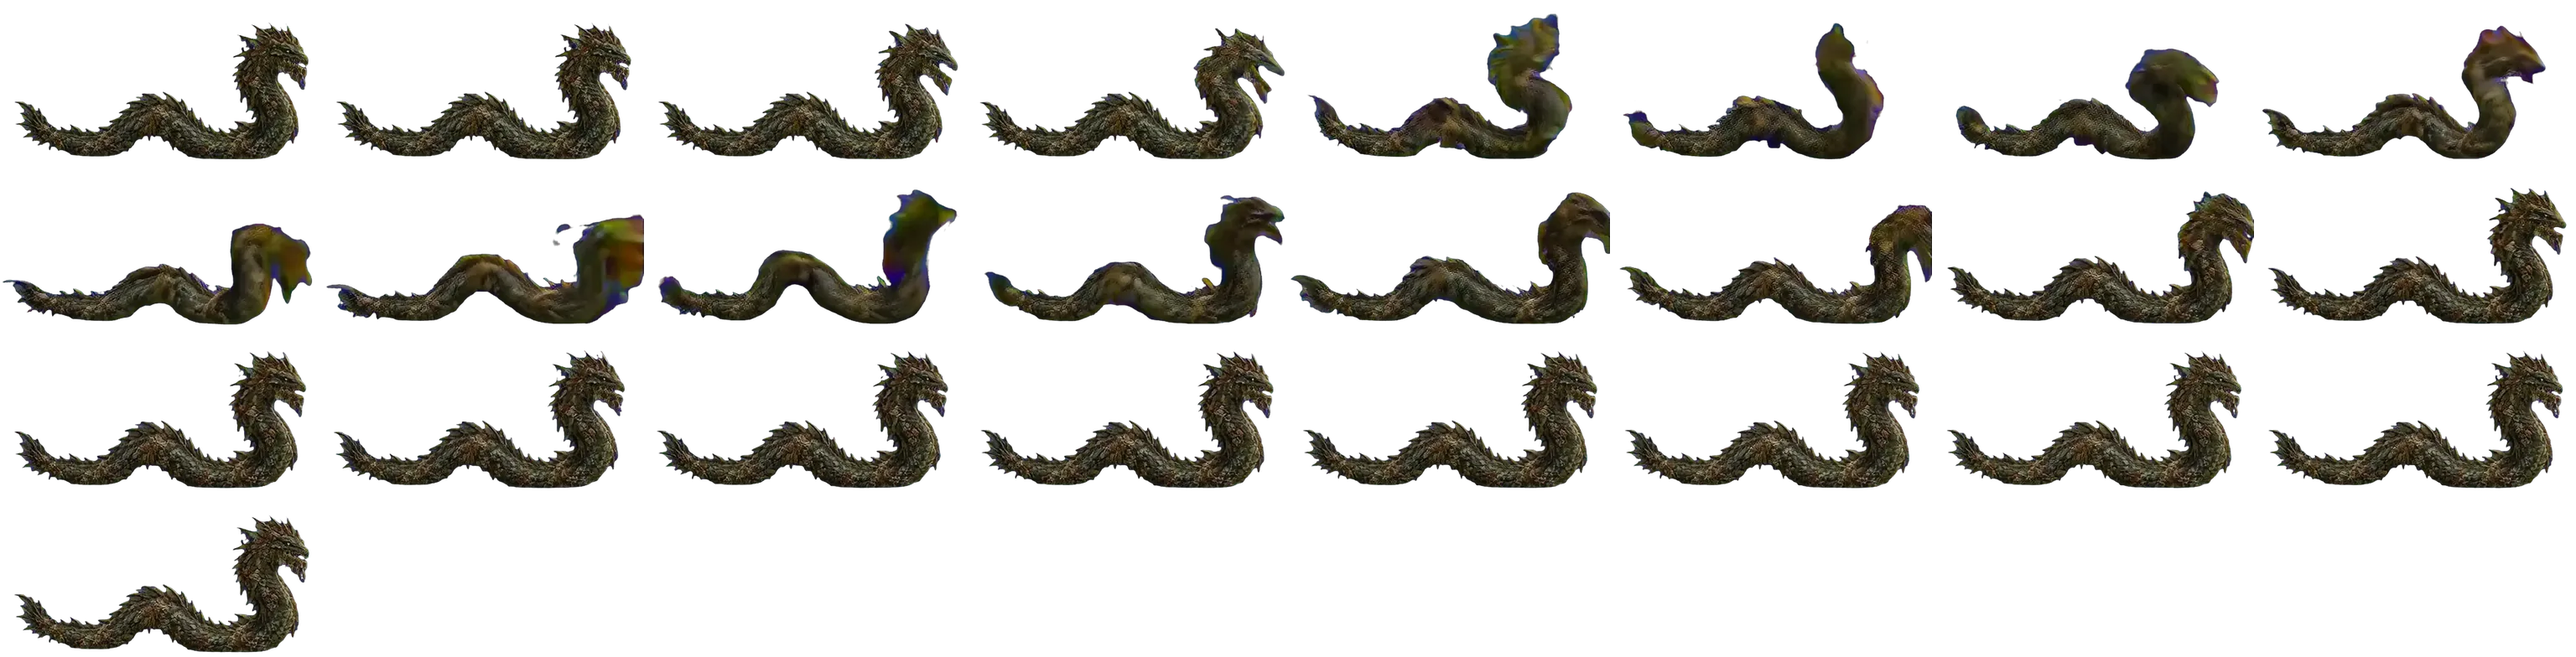
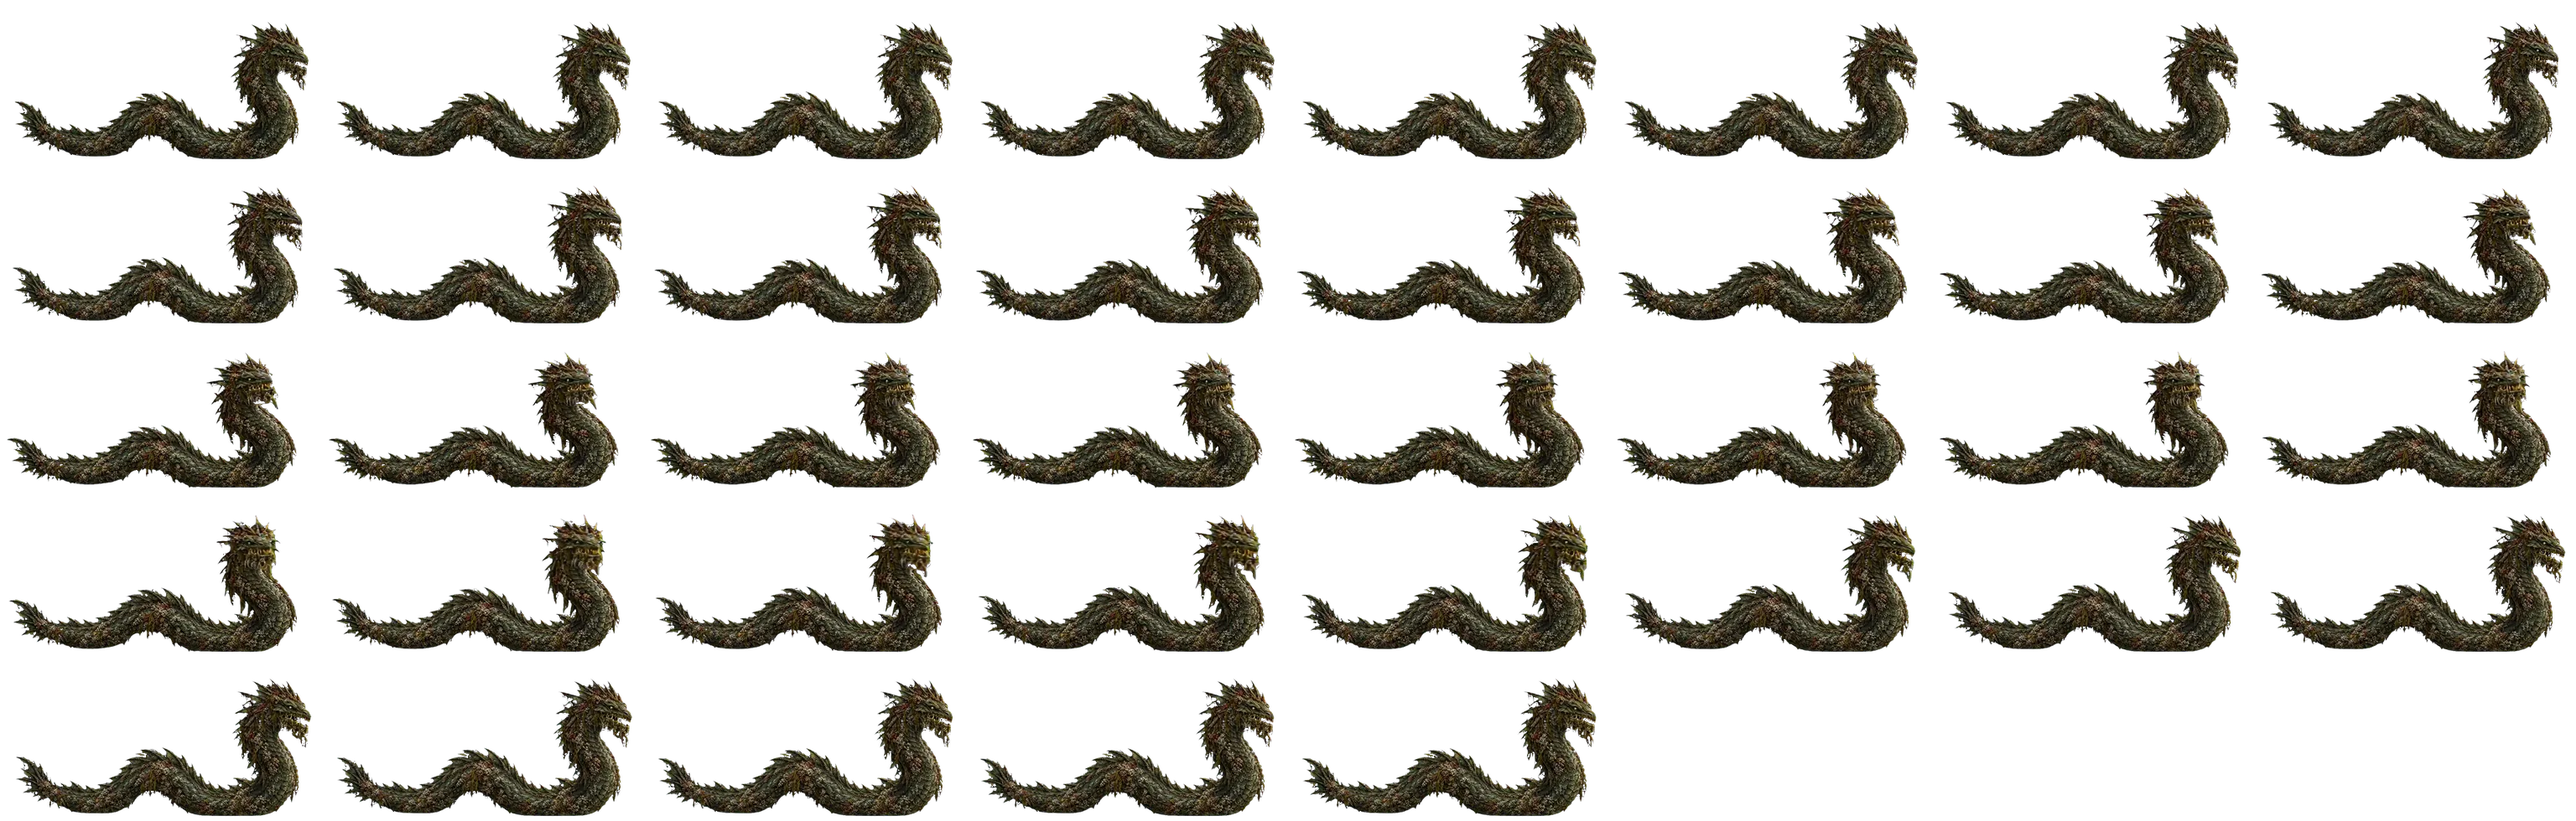
Tides: calmer, slower Leviathan hit clip (full quality, returns to the standing pose)

diff --git a/src/ui/sprites.ts b/src/ui/sprites.ts
@@ -129,7 +129,7 @@ export const SPRITES: Record<string, SpriteSpec> = {
   reefGolem: { dir: 'jednostki/rafowy_golem', box: LARGE, speed: { chod: 1.4, atak: 1.5, smierc: 1.5, trafienie: 1.4 } },
   seaWitch: { dir: 'jednostki/morska_wiedzma', box: [72, 100] as const, corpseMax: CORPSE_MAX_W, speed: { chod: 1.4, atak: 1.5, smierc: 1.5, trafienie: 1.4 } },
   // The Leviathan shows its whole body on land (the author, 25.11; was a head rising from water); its hit is drawn in code.
-  leviathan: { dir: 'jednostki/lewiatan', box: [170, 90] as const, speed: { chod: 1.4, atak: 1.5, smierc: 1.5, trafienie: 1.4 } },
+  leviathan: { dir: 'jednostki/lewiatan', box: [170, 90] as const, speed: { chod: 1.4, atak: 1.5, smierc: 1.5, trafienie: 1.2 } },
   tritonKing: { dir: 'jednostki/krol_trytonow', box: [80, 104] as const, corpseMax: CORPSE_MAX_W, speed: { chod: 1.4, atak: 1.5, smierc: 1.5, trafienie: 1.4 } },
   sirenSinger: { dir: 'jednostki/syrena_piesniarka', box: [80, 104] as const, corpseMax: CORPSE_MAX_W, speed: { chod: 1.4, atak: 1.5, smierc: 1.5, trafienie: 1.4 } },
   seaSerpent: { dir: 'jednostki/waz_morski', box: LARGE, speed: { chod: 1.4, atak: 1.5, smierc: 1.5, trafienie: 1.4 } },

diff --git a/docs/BACKLOG.md b/docs/BACKLOG.md
@@ -41,7 +41,7 @@ Uwagi z oglądania gry po pakiecie Stad, Klanu i Przypływów. Kolejność: tani
    - **Wynik przebiegu stroiciela 25.11 (15:51–18:59, 81 przebiegów, `.tmp/sim/retune-all.log`, `=== done`; NIE scalony):** 1485 komórek w paśmie (88%), 100 na granicy, 107 poza. Poza pasmem: (1) duże mapy (veryLong/huge/giant), Normalny i Trudny za nisko, dźwignie wyczerpane (np. giant·pvp2·full 19%); najgorzej Kryształy `*-crystals-g1-xl` (8–10 z 12 komórek OUT); (2) Łatwy przeskakuje pasmo (3% → 93–100%): dźwignie `noFactionBonus` / `crystalsNeededDelta` są „wszystko albo nic”; (3) Przetrwanie na Cieśninie i Dolinie g0 (po 5 OUT). Trudny Potyczki g0 i tak pomijany przez `tuneMerge` (ręczna reguła autora).
    - **Plan (26.11, autor akceptuje pracę nad tym):** (a) `tuneMerge` tego przebiegu, `make check`, commit; golden `-u` w osobnym commicie; (b) mocniejsza dźwignia dla dużych map (np. więcej skarbów startowych Przymierza zależnie od rozmiaru), dostroić tylko komórki OUT; (c) stopniowe dźwignie Łatwego (np. połowa premii frakcji) zamiast przełącznika. Kolejność a → b → c.
 
-**88. Animacje Bractwa Przypływu: druga runda poprawek zrobiona 26.11, czeka na akceptację autora (`make podglad F=tides`).** Trafienia 6 jednostek jako klipy (Strażnik, Żaba, Syrena, Żółw, Kapłanka, Albatros z pozy stojącej), atak Strażnika (pchnięcie trójzębem), Lewiatan jako wąż na lądzie. Znane wady: trafienie Albatrosa ma rozmyte pióra w szczycie odrzutu, trafienie Lewiatana ma kilka klatek z kolorowymi artefaktami (draft), trafienie Żółwia jest delikatne. Lekcja: `lastFrameImage` równe obrazowi startowemu wymusza powrót do pozy (trafienia i ataki); słowa „blow” i „knocked off balance” blokuje filtr.
+**88. Animacje Bractwa Przypływu: druga runda poprawek zrobiona 26.11, czeka na akceptację autora (`make podglad F=tides`).** Trafienia 6 jednostek jako klipy (Strażnik, Żaba, Syrena, Żółw, Kapłanka, Albatros z pozy stojącej), atak Strażnika (pchnięcie trójzębem), Lewiatan jako wąż na lądzie. Znane wady: trafienie Albatrosa ma rozmyte pióra w szczycie odrzutu, trafienie Żółwia jest delikatne. Lekcja: `lastFrameImage` równe obrazowi startowemu wymusza powrót do pozy (trafienia i ataki); słowa „blow” i „knocked off balance” blokuje filtr.
 
 **89. Uwagi autora do interfejsu z 26.11 (S–M, bez kredytów).**
    - **Środek mapy:** po usunięciu Drzewa z celów innych niż „Kryształy do Drzewa” środkowy kafelek nadal jest odsłonięty od startu; ma być zakryty jak reszta.
